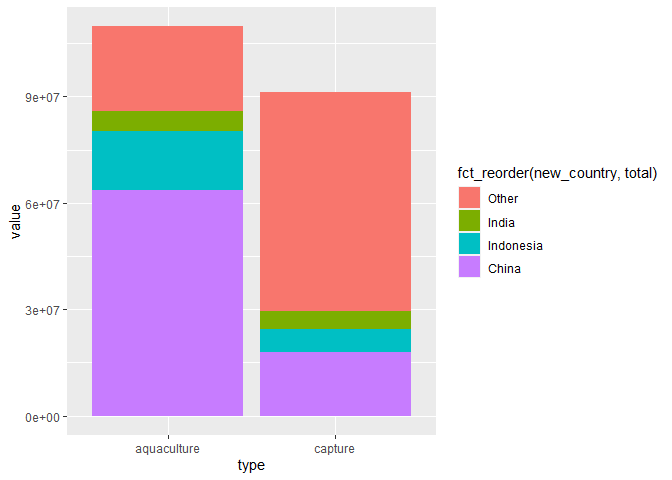
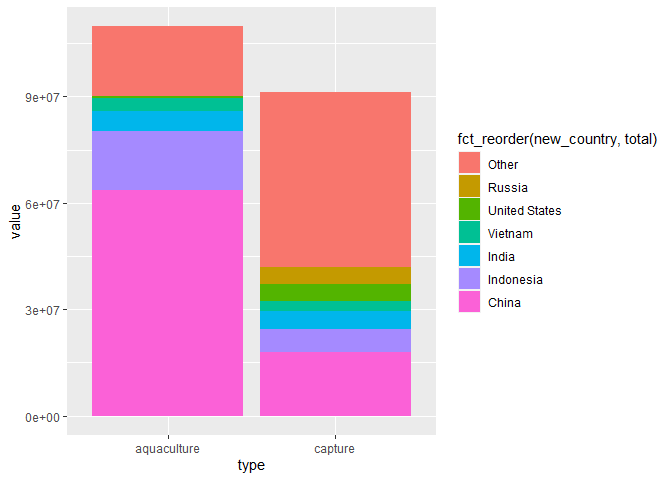
More

Changed region(s): [[0.125, 0.1875, 0.625, 0.875], [0.6562, 0.2812, 1.0, 0.6562]]

diff --git a/lab-06.md b/lab-06.md
@@ -152,18 +152,12 @@ fish_long %>%
     country == "China" ~ "China",
     country == "Indonesia" ~ "Indonesia",
     country == "India" ~ "India",
-    !country %in% c("China", "India", "Indonesia") ~ "Other")) %>%
+    country == "Vietnam" ~ "Vietnam",
+    country == "United States" ~ "United States",
+    country == "Russia" ~ "Russia",
+    !country %in% c("China", "India", "Indonesia", "Vietnam", "United States", "Russia") ~ "Other")) %>%
   ggplot(aes(x = type, y = value, fill = fct_reorder(new_country, total)))+
   geom_bar(stat = "identity")
 ```
 
 ![](lab-06_files/figure-gfm/try-something-better-1.png)<!-- -->
-
-``` r
-fish_long %>%
-  filter(!country %in% c("China", "India", "Indonesia"), total > 1000000)%>%
-  ggplot(aes(x = type, y = value, fill = fct_reorder(country, total)))+
-  geom_bar(stat = "identity")
-```
-
-![](lab-06_files/figure-gfm/try-something-better-2.png)<!-- -->
